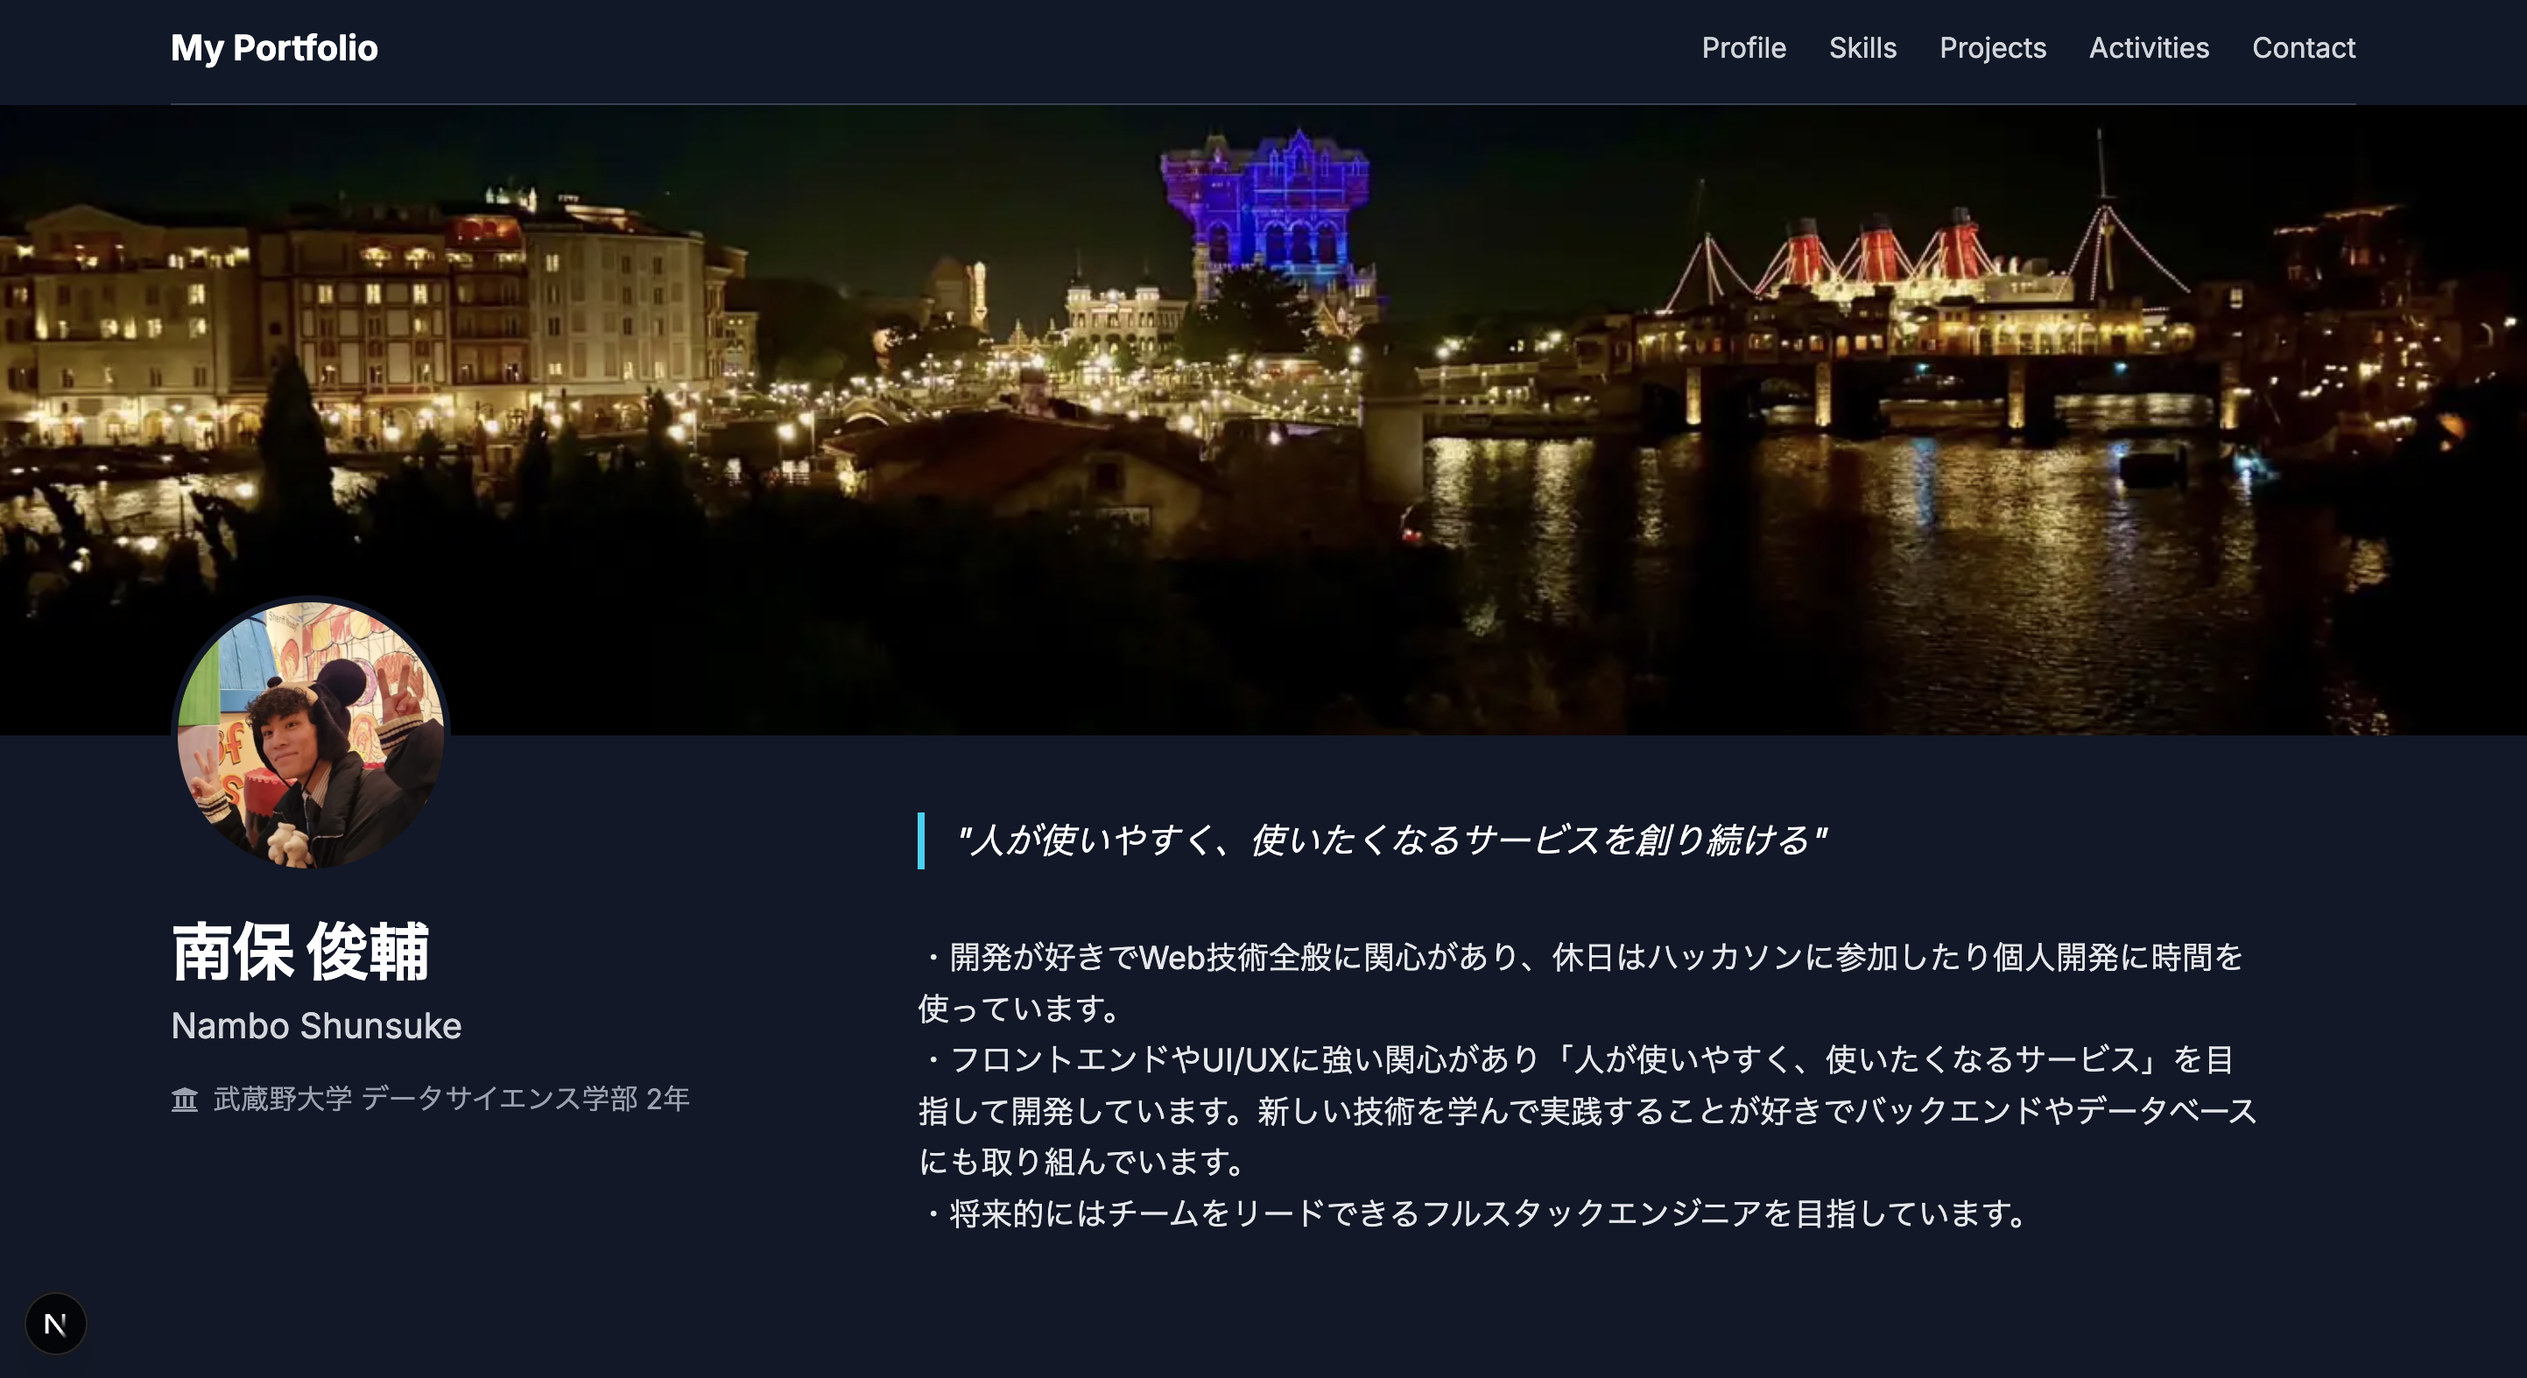
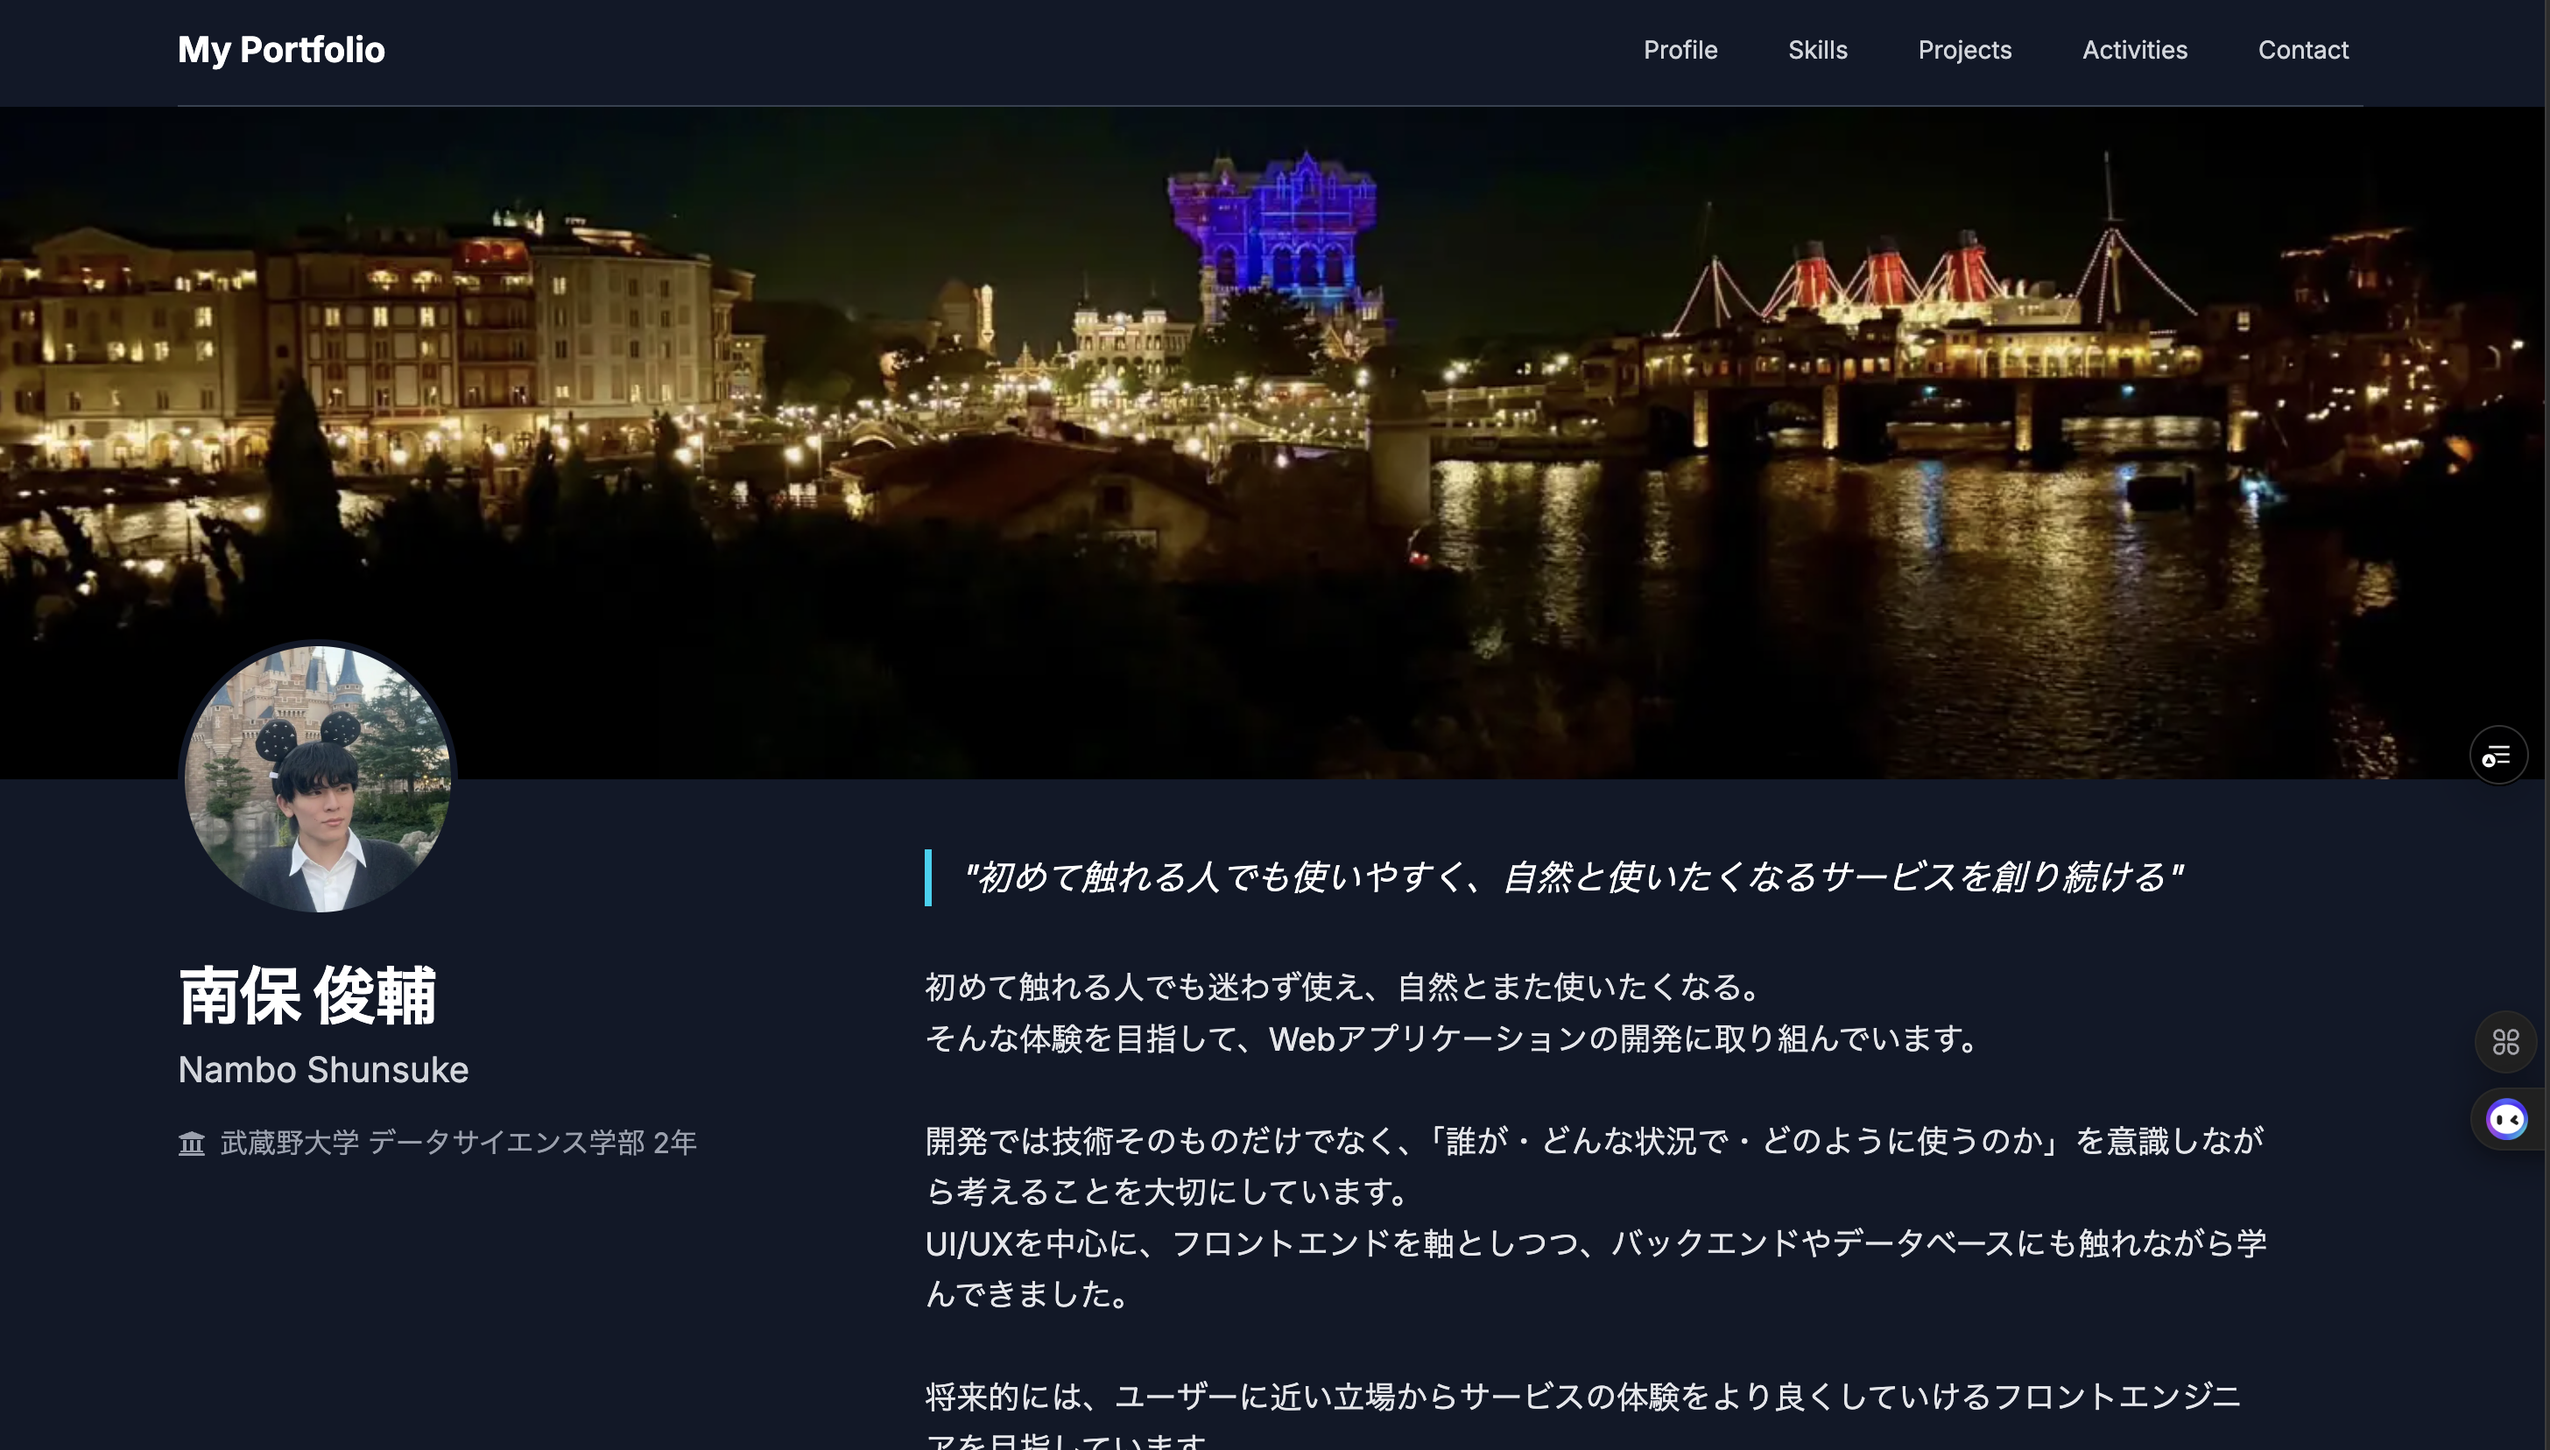
おそらく追加データはおっけー

diff --git a/config/index.ts b/config/index.ts
@@ -103,7 +103,7 @@ export const siteConfig = {
     },
     {
         title: "モバオル",
-        description: "学部内ハッカソンで開発したモバイルオーダーシステムです。",
+        description: "学部内ハッカソン期間中に開発したモバイルオーダーシステムです。",
         category: "university",
         tags: ["Python", "Flask", "SQLite"],
         image: "/projects/project-mobaoru.png",
@@ -112,11 +112,20 @@ export const siteConfig = {
     },
     {
       title: "Thanks",
-      description: "RSS Hackathon 2025で開発した、感謝をつなげるSNSです。",
+      description: "RSS Hackathon 2025で制作した、感謝をつなげるSNSです。",
       category: "hackathon",
       tags: ["Vue.js", "firebase", "vercel"],
       image: "/projects/project-thanks.png",
       url: "https://rss-hackathon-namelesz-k1f8bbvz1-shunsukenambo-8040s-projects.vercel.app/",
+      github: "https://github.com/namb0304/RSS_Hackathon_namelesz.git",
+    },
+    {
+      title: "Thank x Chain",
+      description: "技育展2025の予選会に向けたThanksの改良版です。コンセプトの見直しからリファクタリング・UI/UXの改善などを重点的に行いました。",
+      category: "hackathon",
+      tags: ["Vue.js", "firebase", "vercel"],
+      image: "/projects/project-thanks_x_chain.png",
+      url: "https://thanks.jkotqmrr.com/",
       github: "https://github.com/namb0304/RSS_Hackathon_namelesz.git",
     },
     {
@@ -130,7 +139,7 @@ export const siteConfig = {
     },
     {
         title: "AIによる画像分析とSNS機能を統合したファッション共有・提案システム", 
-        description: "ゼミ合宿で開発した、AIを活用したファッションとSNSの融合サービスです。主にフロントエンドを担当しました。",
+        description: "2025年のゼミ合宿で開発した、AIを活用したファッションとSNSの融合サービスです。メイン機能の実装を担当しました。",
         category: "zemi",
         tags: ["php","python","AI"],
         image: "/projects/project-ai-fashion.png",
@@ -148,13 +157,14 @@ export const siteConfig = {
     },
     {
         title: "chrome拡張機能によるタブ管理ツール",
-        description: "reactとfastapiの勉強のために開発したchrome拡張機能のタブ管理ツールです。",
+        description: "reactとfastapiとdockerの勉強のために開発したchrome拡張機能のタブ管理ツールです。",
         category: "personal",
-        tags: ["開発","勉強","chrome拡張機能","react","fastapi"],
+        tags: ["開発","勉強","chrome拡張機能","react","fastapi","docker"],
         image: "/projects/project-chrome-extension.png",
         url: "なし",
         github: "https://github.com/namb0304/react-fastapi.app.git"
     }
+    
   ],
   
   // タイムライン用のデータ
@@ -220,7 +230,24 @@ export const siteConfig = {
       description: "Next.js,Tailwind CSS,vercelなどを使用して、自身のポートフォリオサイトを制作・公開しました。",
       tags: ["開発"],
     },
-
+    {
+      date: "2025年11月",
+      title: "技育展2025 予選会に参加",
+      description: "RSS Hackathonで制作したThanksを改良し、技育展2025の予選会に参加しました。予選を通過することはできませんでしたが、納得のいく作品に仕上げることができました。",
+      tags: ["ハッカソン", "開発"],
+    },
+    {
+      date: "2025年11月",
+      title: "実店舗向けモバイルオーダーシステム「Hirolia」共同開発 始動",
+      description: "経営学部の友人に実際の店舗での運用を想定したモバイルオーダーシステムの実装を依頼され、同じ学部のメンバーと共同で設計・開発を開始しました。",
+      tags: ["開発", "共同開発"],
+    },
+    {
+      date: "2025年12月",
+      title: "第2回MUDSハッカソンに参加",
+      description: "学部内で開催された2回目のハッカソンに参加しました。「Hirolia」のプロトタイプを開発しました。賞は取れませんでしたがシステムの大枠を完成させることができました。",
+      tags: ["開発", "共同開発", "ハッカソン","大学"],
+    },
 
     // === ここまで追加データ ===
     ],

diff --git a/components/ProfileHeader.tsx b/components/ProfileHeader.tsx
@@ -21,8 +21,8 @@ const ProfileHeader = () => {
 
   return (
     <section id="profile" className="pt-24 md:pt-16 scroll-mt-16">
-      {/* ↓↓↓ md:h-90 を md:h-96 に修正しました ↓↓↓ */}
-      <div className="h-48 md:h-96 bg-gray-700 relative">
+      {/* ↓↓↓ md:h-90 を md:h-88 に修正しました ↓↓↓ */}
+      <div className="h-48 md:h-88 bg-gray-700 relative">
         <Image
           src="/images/hero-background.jpg"
           alt="Banner"
